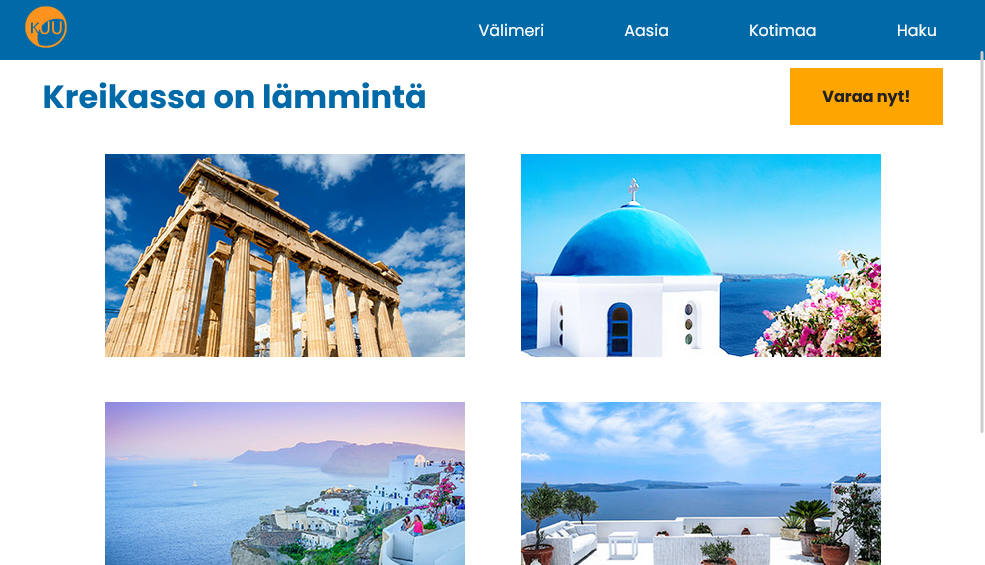
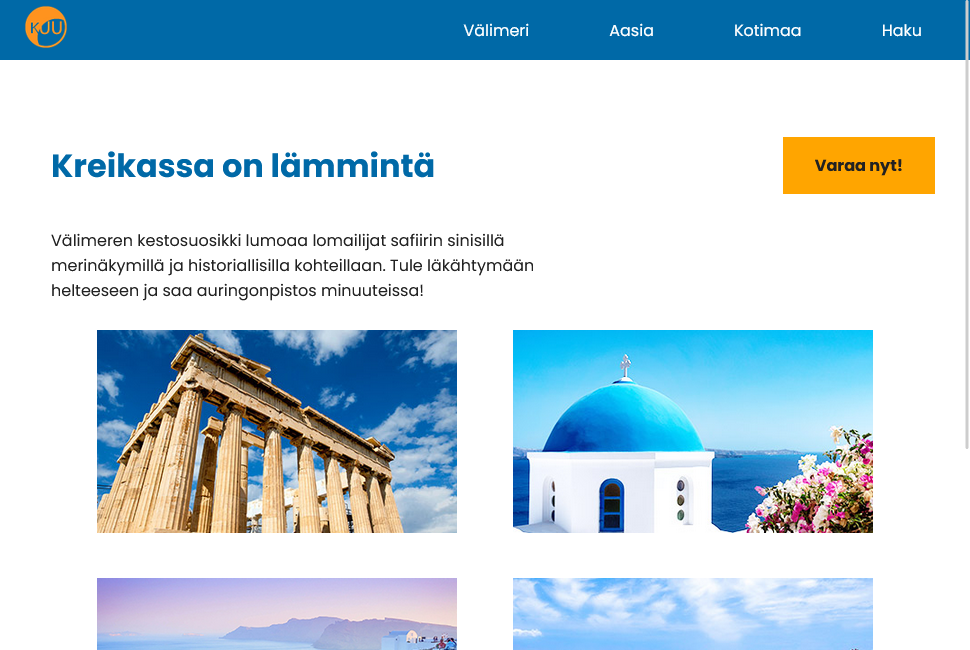
add e10

diff --git a/exercises/e10/e10.html b/exercises/e10/e10.html
@@ -1,0 +1,201 @@
+<!DOCTYPE html>
+<html lang="en">
+<head>
+    <meta charset="UTF-8">
+    <meta http-equiv="X-UA-Compatible" content="IE=edge">
+    <meta name="viewport" content="width=device-width, initial-scale=1.0">
+    <title>Joulukuusi</title>
+      <style>
+    @import url('https://fonts.googleapis.com/css2?family=Open+Sans:ital,wght@0,400;0,700;1,400&display=swap');
+
+    html {
+      font-family: 'Open Sans', sans-serif;
+    }
+    hr{
+         display:block;
+    border:0px;
+    height:46px;
+    background-image:url('img/coniferous.png');
+    }
+    img {
+      max-width: 600px;
+    }
+    xmp {
+      line-height: 1.5em;
+      background-color: rgb(83, 0, 35);
+      color: white;
+      padding: 1em;
+    }
+    p{
+        max-width: 600px;
+    }
+    .fleximages{
+      display: flex;
+      gap: 2px;
+    }
+    .fleximages img{
+      max-width: 50%;
+    }
+    .split{
+      display: flex;
+      gap: 1em;
+    }
+    .split img{
+      width: 100%;
+      max-width: 50vw;
+    }
+    .split div+div{
+      margin-top: auto;
+    }
+    .small_pieces img{
+      max-width: 200px;
+    }
+    ul {
+      list-style-type: circle;
+      margin: 0;
+      padding: 1em;
+      line-height: 1.6em;
+      color: black;
+    }
+    .tyylit b{
+      display: block;
+    }
+  </style>
+</head>
+<body>
+<h1>Harjoitus 10 - Joulukuusi</h1>
+<xmp>html_css_basics
+|
+├── demos
+│   └── ...
+|
+├── exercises
+│   ├── ...
+│   └── e10
+│       ├── style.css
+│       ├── index.html
+│       └── img
+│           ├── havu.png
+│           ├── jalka.png
+│           ├── ketju.png
+│           ├── kynttila.png
+│           ├── latvatahti.png
+│           └── pallo.png
+|
+</xmp>
+<hr>
+<h2>Tehtävä</h2>
+<p>Kokoa joulukuusi annetuista osista tai piirrä itse osia ja koristeita</p>
+<h3>HTML</h3>
+<div class="split">
+  <div>
+    <ul>
+<li>Kokoaminen kannattaa aloittaa jalasta ja havuista</li>
+<li>Lisää kuvat main elementin sisälle</li>
+<li>Anna kullekin kuvalle yksilöllinen class esim:<br>
+  tree_leg, tree_bot, tree_mid, tree_top<br>
+  (jalka, alaoksat, keskihavu, latvahavu)</li>
+<li>Sama havukuva tulee siis 3 kertaa</li>
+<li>Lisää latvatähtikuva ja anna sille class star</li>
+<li>Lisää myös 3 koristeköynnöstä ja anna niille esim. luokat</li>
+<li>tinsel_top, tinsel_mid, tinsel_bot</li>
+<li>Pallot ja kynttilät on aseteltu 5x3 taulukkoon, jolla on luokka decorations</li>
+<li>Lisää taulukon soluihin pallojen ja kynttilöiden kuvia</li>
+<li>Anna koristepalloille luokka ball ja kynttilöille luokka candle</li>
+
+    </ul>
+  </div>
+  <div><img src="img/kokokuusi.png" alt=""></div>
+</div>
+<hr>
+<h2>Kuvat</h2>
+<i>Raahaa kuvat työpöydälle, jolloin saat ne täysikokoisina ja säilytät läpinäkyvyyden.</i>
+<div class="small_pieces">
+  <img src="img/havu.png" alt="">
+  <img src="img/jalka.png" alt="">
+  <img src="img/ketju.png" alt="">
+  <img src="img/kynttila.png" alt="">
+  <img src="img/latvatahti.png" alt="">
+  <img src="img/pallo.png" alt="">
+</div>
+
+<hr>
+<div class="split">
+
+<div>
+  <h2>CSS</h2>
+<div class="tyylit">
+<b>body</b>
+<p>nolla marginaalit ja piilota ylivuoto</p>
+<b>main</b>
+<ul>
+  <li>aseta leveys ja korkeus täyttämään koko ruutu (100vw / 100vh)</li>
+  <li>aseta tumma taustaväri</li>
+  <li>lisää display:flex; ja keskitä flex elementit pysty ja vaakasuunnassa</li>
+  <li>aseta position: relative; jotta jäljempänä tulevat elementit ottavat tämän elementin referenssiksi</li>
+  <li>lisää seuraava koodi, joka asemoi kaikki kuvat paitsi taulukon sisällä olevat absoluuttisesti</li>
+</ul>
+<xmp>img:not(table img){
+    position: absolute;
+}
+</xmp>
+<li>nyt position: absolute; ei tarvitse kirjoittaa kaikkiin kuviin erikseen</li>
+
+<b>kuusen jalka (.tree_leg)</b>
+<ul>
+  <li>elementin pitäisi nyt olla aboluuttisesti asemoitava eli sille voidaan antaa </li>
+  <li>bottom: 1em; joka asettaa kuusen jalan ruudun alalaitaan</li>
+</ul>
+
+<b>Alaoksat (.tree_bot)</b>
+<li>bottom: 8em; nostaa alaoksia hieman ylemmäs kuin kuusen jalkaa</li>
+
+<b>Keskioksat (.tree_mid)</b>
+<ul>
+  <li>käytä samaa bottom käskyä mutta nosta keskioksia ylemmäs kuin alaoksia</li>
+  <li>lisää scale ja pienennä keskioskia hieman</li>
+</ul>
+<b>Latva (.tree_top)</b>
+<ul>
+  <li>käytä bottom käskyä ja nosta latvaa ylemmäs</li>
+  <li>lisää scale ja muuta latvaa peinemmäksi</li>
+</ul>
+<b>Latvatähti (.star)</b>
+<p>nosta latvatähti joulukuusen latvaan</p>
+
+<b>Koristenauhat (tinsel_bot, tinsel_mid, tinsel_top)</b>
+<ul>
+  <li>Käytä samaa logiikkaa kuin oksien asemoinnissa</li>
+  <li>nosta kukin koristenauha paikalleen ja skaala sitä pienemmäksi</li>
+</ul>
+
+<b>Koriste-taulukko (.decorations) </b>
+<ul>
+  <li>lisää position: absolute; ja nosta taulukko sopivalle korkeudelle </li>
+  <li>jos lisäät taulukon soluille reunaviivan, pystyt havainnoimaan paremmin, miten suuri taulukko on</li>
+  <li><xmp>table tr td{border: solid thin white;}</xmp></li>
+</ul>
+
+<b>Koriste-taulukon rivit (.decorations tr)</b>
+<ul>
+  <li>tee taulukon rivistä flex-elementti display: flex; </li>
+  <li>aseta rivin korkeus (height) sopivaksi </li>
+  <li>keskitä flex-elementit vaakasuunnassa keskelle</li>
+  <li>keskitä flex-elementit pystysuunnassa pohjalle (align-items:flex-end;)</li>
+  <li>kynttilät ja pallot (.candle / .ball) </li>
+  <li>Säädä kynttilöiden ja pallojen koko sopivaksi (max-width)</li>
+</ul>
+</div></div>
+<div>
+  <img src="img/table_before.png" alt="table_before">
+  <p>Taulukko alkutilanteessa</p><br>
+  <img src="img/table_after.png" alt="table_after"><p>Taulukko flexauksen jälkeen</p>
+</div>
+
+
+
+
+</div>
+
+</body>
+</html>

diff --git a/demos/d18_travel/ohje.html b/demos/d18_travel/ohje.html
@@ -37,7 +37,6 @@
             object-fit: contain;
             max-width: 300px;
         }
-        ul b{margin-left: -1em;}
 
         figure img{
             max-width: 100%;
@@ -120,8 +119,30 @@
 <img src="img/large/terrace.jpg" alt="">
 </div>
 <hr>
+<h2>Galleriasivu (kreikka.html)</h2>
+<ul>
+    <li>Galleriasivulla on sama navigaatio kuin etusivulla</li>
+    <li>mainin sisällä on div class="split" elementti, jonka tarkoitus on asemoida otsikko (h1) ”Kreikassa on lämmintä”<br>ja nappi (a class="buy_link") ”Varaa nyt” vastakkaisiin päätyihin flexillä</li>
+    <li>split divin jälkeen voit lisätä kuvaustekstin div class="desc" jossa on p tagissa tekstiä esim.<br>
+        <i>Välimeren kestosuosikki lumoaa lomailijat safiirin sinisillä merinäkymillä ja historiallisilla kohteillaan.
+            <br>Tule läkähtymään helteeseen ja saa auringonpistos minuuteissa!</i></li>
+    <li>divin jälkeen on varsinainen lightboxia hyödyntävä galleria div id="images_gallery"</li>
+    <li>sen sisällä on ryhmä elementtejä:</li>
+</ul>
+<xmp><a href="img/large/greece.jpg" data-lightbox="set1" data-title="Greece">
+    <img src="img/small/greece_small.jpg" alt=""/>
+</a>
+</xmp>
+<ul>
+    <li><b>href</b> linkki osoittaa isompaan kuvaan kansiossa img/large, jonka halutaan avautuvan lightboxiin</li>
+    <li><b>data-lightbox</b> määrittää mihin galleriaan/settiin valokuva kuuluu
+    <br>aseta kaikille kuville data-lightbox="set1" jolloin kaikki kuuluvat samaan kokonaisuuteen
+    <br>siten käyttäjä voi selata kaikki 4 kuvaa läpi avaamalla lightboxin kerrran
+    <li><b>data-title</b> asettaa kuvatekstin joka näkyy kun kuva on avattu isompana</li>
+    <li><b>img</b> tagi toimiii esikatselukuvana (thumbnail), aseta siihen img/small kansiosta vastaava kuva</li>
+</ul>
 
-<h2>Lightbox</h2>
+<h3>Lightbox</h3>
 <b>Lähde: <a href="https://lokeshdhakar.com/projects/lightbox2/" target="_blank">lightbox2 by lokeshdhakar</a> </b>
 <ul>
 

diff --git a/index.html b/index.html
@@ -108,6 +108,7 @@
                    <li><a href="exercises/e7/e7.html" target="_blank">Harjoitus 7</a></li>
                    <li><a href="exercises/e8/e8.html" target="_blank">Harjoitus 8</a></li>
                    <li><a href="exercises/e9/e9.html" target="_blank">Harjoitus 9</a></li>
+                   <li><a href="exercises/e10/e10.html" target="_blank">Harjoitus 10/10</a></li>
                </ul>
             </div></div>
 
